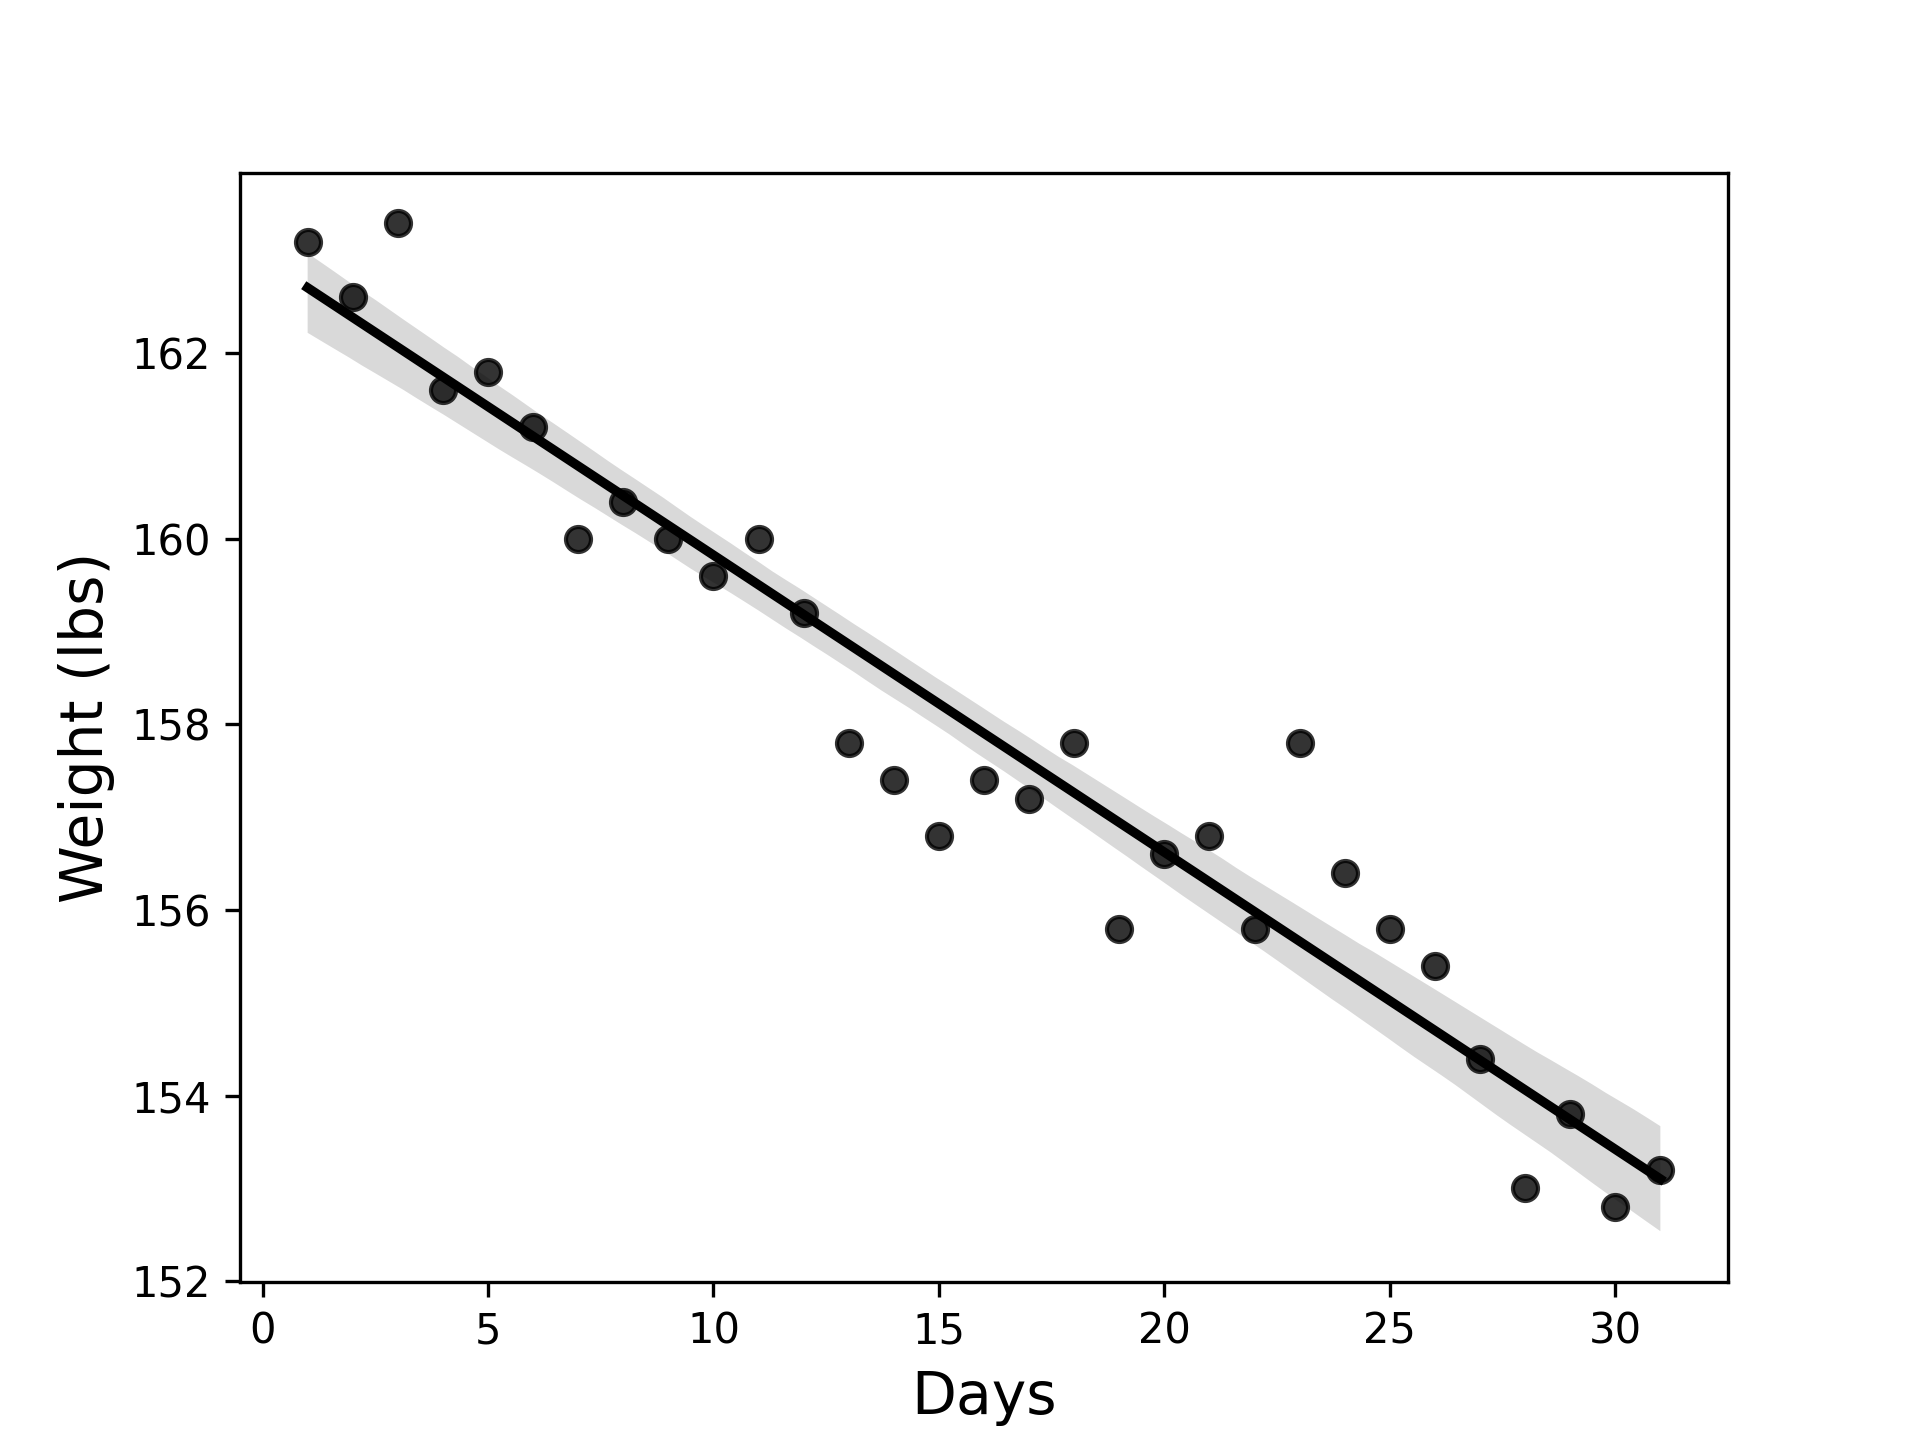
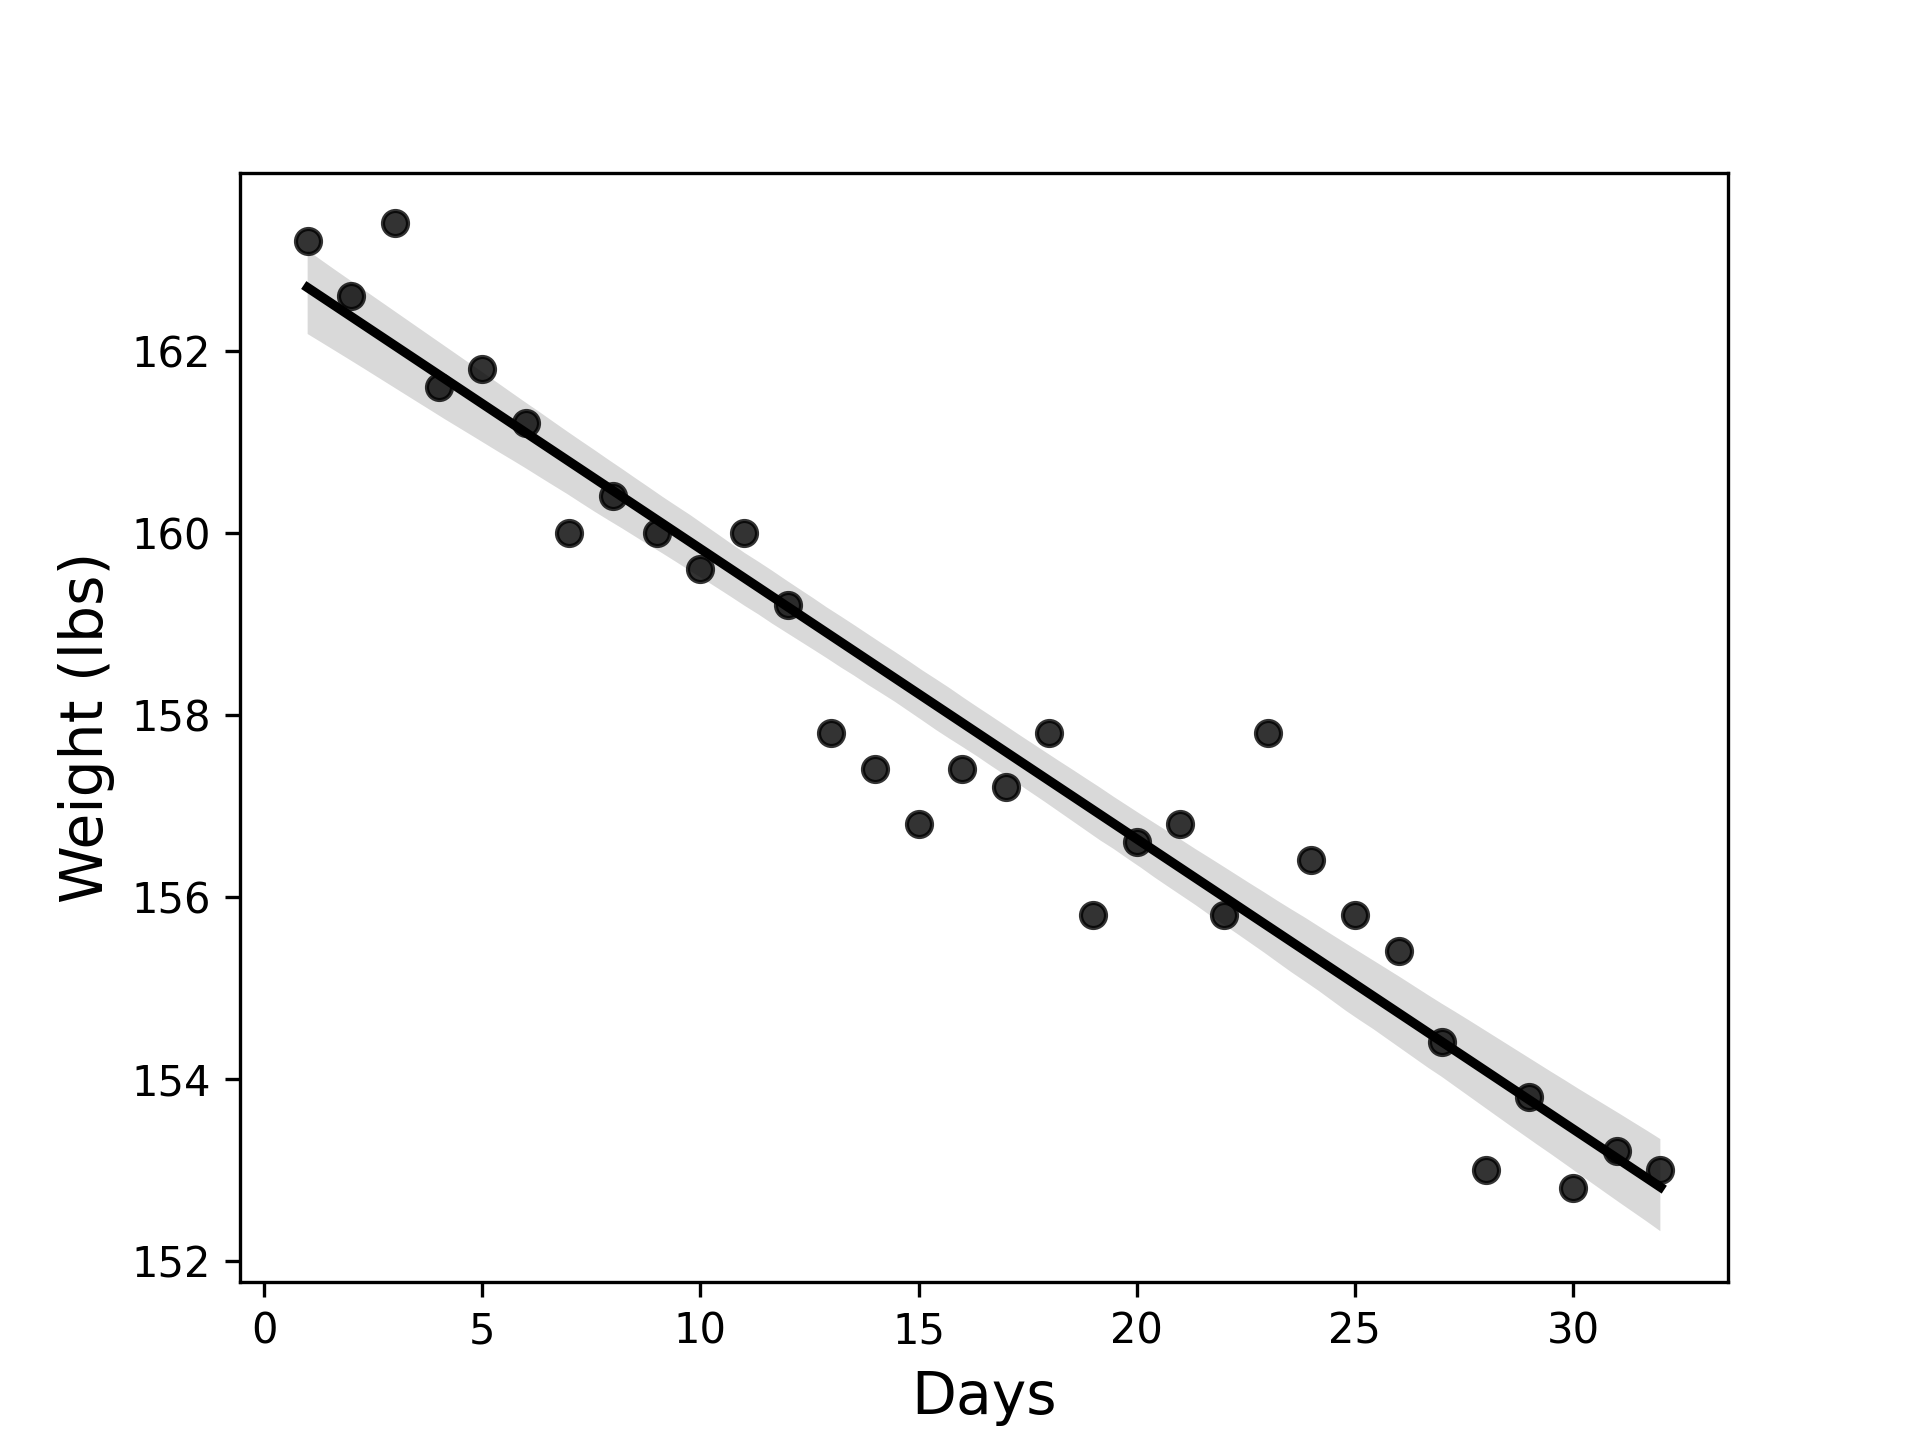
Updated weight.py and weight.png

diff --git a/Weight.py b/Weight.py
@@ -6,10 +6,10 @@ import seaborn as sns
 
 # Creates an array of elapsed days and assigns it to days_elapsed
 days_elapsed = np.array([1, 2, 3 ,4, 5, 6, 7, 8, 9, 10,11,12,13, 14,15,16,17,18,
-                         19, 20,21,22,23,24,25,26,27,28,29,30,31]).reshape(-1,1)
+                         19, 20,21,22,23,24,25,26,27,28,29,30,31,32]).reshape(-1,1)
 weight = np.array([163.2, 162.6, 163.4, 161.6, 161.8, 161.2, 160.0, 160.4, 160.0, 159.6,160.0,159.2,157.8, 157.4,156.8,157.4,
                    157.2, 157.8,155.8, 156.6,156.8,155.8,157.8,156.4,155.8,155.4,154.4,153.0,153.8,152.8,153.2,
-                   ])
+                   153.0])
 
 # Instantiates a LinearRegression model and fits it to the above arrays
 model = sklearn.linear_model.LinearRegression().fit(days_elapsed,weight)
